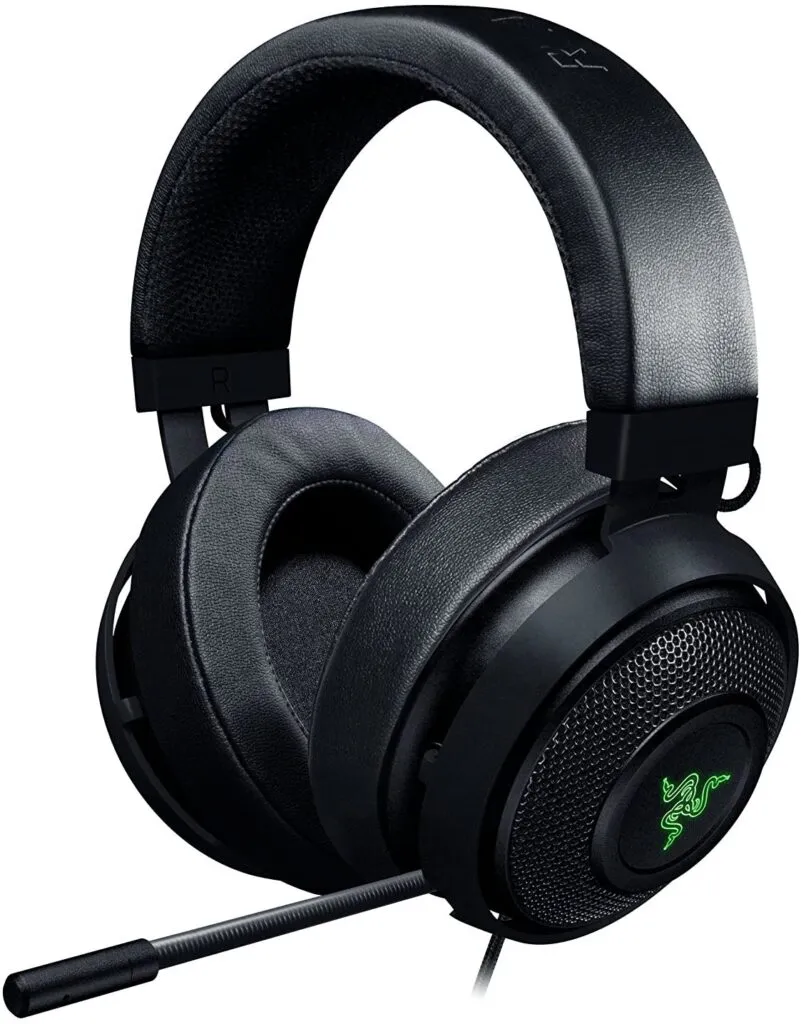
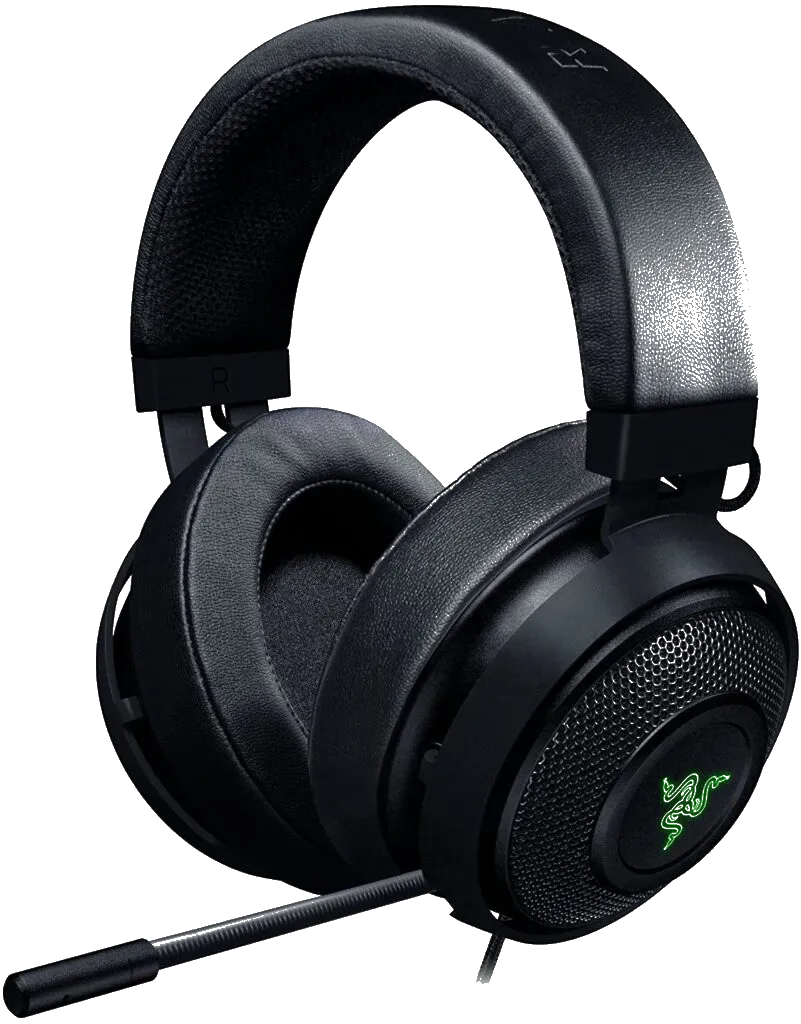
frontend

Changed region(s): [[0.7803, 0.2188, 0.9675, 0.375], [0.8427, 0.75, 0.8739, 0.8125], [0.593, 0.9375, 0.6242, 0.9688]]

diff --git a/shiftx/pages/index.js b/shiftx/pages/index.js
@@ -1,11 +1,11 @@
 export default function Home() {
   return (
-      <div className="p-5">
+      <div className="bg-yellow-400 p-5">
         <div>
           <h2 className="text-2xl">Smartphones</h2>
           <div className="py-4">
             <div className="w-64">
-              <div className="bg-gray-200 p-5 rounded-xl">
+              <div className="bg-white p-5 rounded-xl">
                 <img src="/products/razer.png" alt=""/>
               </div>
               <div className="mt-2">
